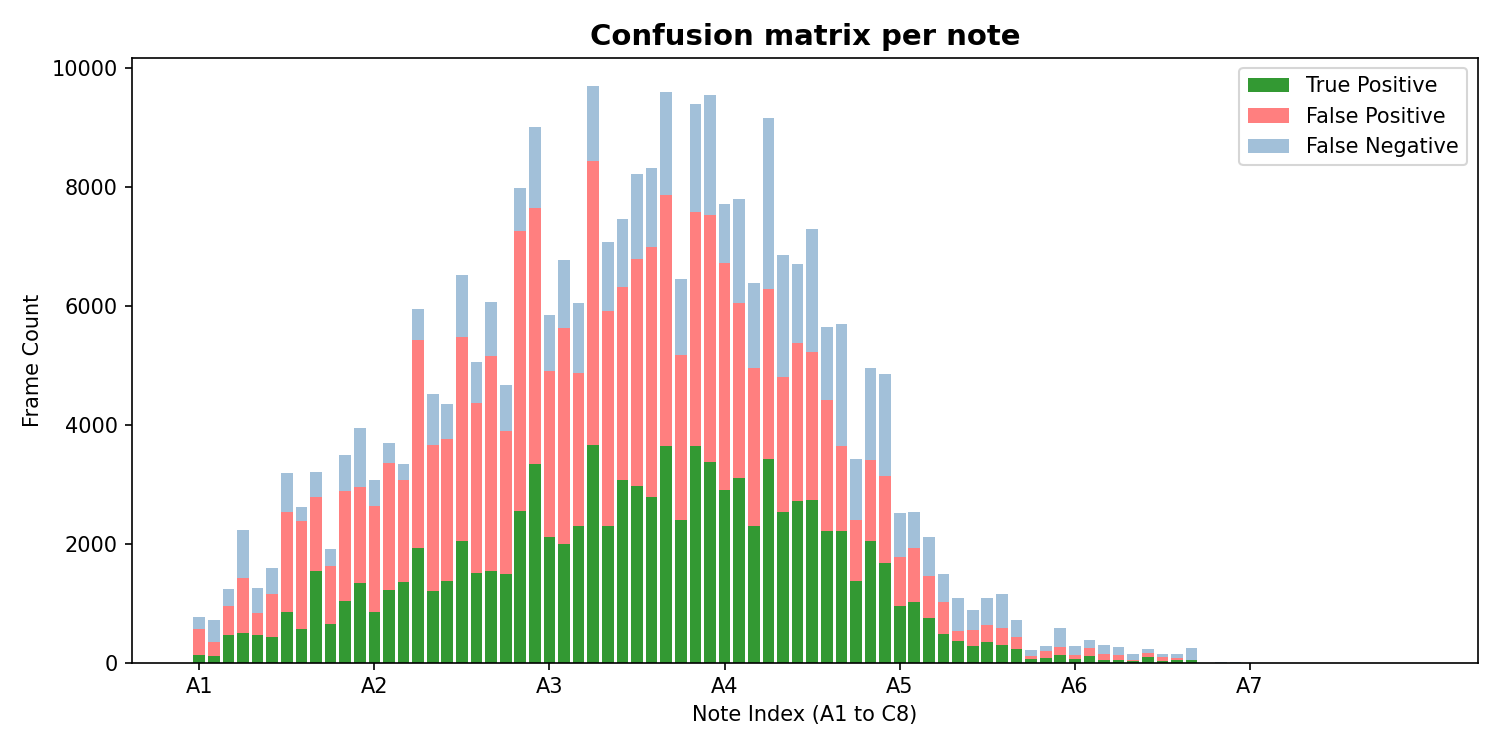
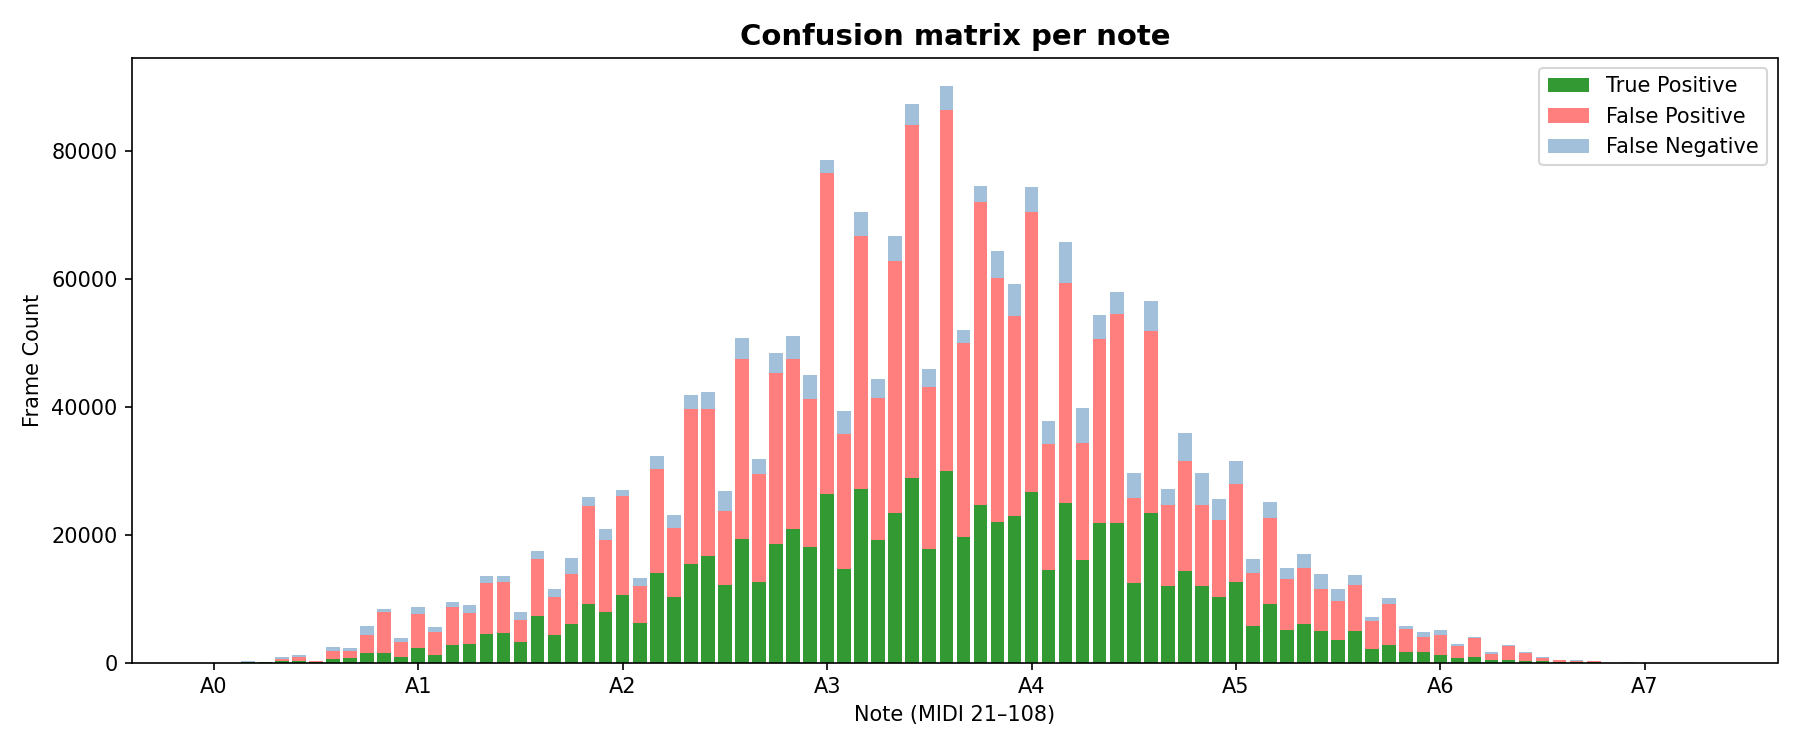
trainings

diff --git a/src/dataset.py b/src/dataset.py
@@ -1,67 +1,104 @@
-# dataset.py  –  Phase 3: CNN + BiLSTM + Multi-Output
+# dataset.py  -  MAESTRO Phase 3: CNN + BiLSTM + Multi-Output
 #
-# Rispetto alla Phase 2:
-#   - Integrata pipeline di data augmentation (pitch shift, detuning, gain,
-#     rumore gaussiano, reverb sintetico) — adattata dal codice esterno
-#   - _shift_piano_roll applicato anche a onset_roll e offset_roll
-#   - aug_config=None disattiva l'augmentation; ignorata su split != 'train'
-#   - Fix allineamento label: start_cqt_frame calcolato con fattore di scala
-#     sample_rate / ORIG_SR (necessario per resampling 44100 -> 22050)
+# Rispetto al MAESTRO Phase 2:
+#   - Aggiunto aug_config e pipeline di data augmentation
+#   - _shift_piano_roll applicato a pitch, onset e offset roll
+#   - Chiavi restituite allineate con train.py/evaluate.py:
+#       'onset_labels' -> 'onsets'
+#       'offset_labels' -> 'offsets'
+#   - Path CSV e data_dir risolti relativi alla project root
 
 import torch
 import torchaudio
 import pandas as pd
 import numpy as np
 import random
+import math
 from torch.utils.data import Dataset
 from pathlib import Path
 import soundfile as sf
+import pretty_midi
 
 from utils import load_config
 
 
-class MusicNetPianoDataset(Dataset):
+class MaestroDataset(Dataset):
 
-    config = load_config("configs/config.yaml")
+    def __init__(self,
+                 csv_file=None,
+                 data_dir=None,
+                 split='train',
+                 chunk_duration=None,
+                 sample_rate=None,
+                 aug_config=None,
+                 config_path="configs/config.yaml",
+                 val_seed=42):
 
-    def __init__(
-        self,
-        csv_file       = "data/solo_piano.csv",
-        data_dir       = "data/raw",
-        split          = 'train',
-        chunk_duration = config["dataset"]["chunk_duration"],
-        sample_rate    = config["dataset"]["sample_rate"],
-        aug_config     = None,
-        val_seed       = 42,
-    ):
+        cfg            = load_config(config_path)
+        self.config    = cfg
+        csv_file       = csv_file       or cfg['dataset']['csv_file']
+        data_dir       = data_dir       or cfg['dataset']['data_dir']
+        chunk_duration = chunk_duration or cfg['dataset']['chunk_duration']
+        sample_rate    = sample_rate    or cfg['dataset']['sample_rate']
+
+        # Risolve i path relativi alla project root (src/../)
         project_root  = Path(__file__).parent.parent
         csv_path      = project_root / csv_file
         self.data_dir = project_root / data_dir
 
         df = pd.read_csv(csv_path)
-        self.data = df[df['split'] == split].reset_index(drop=True)
-
+        self.data          = df[df['split'] == split].reset_index(drop=True)
         self.split          = split
         self.sample_rate    = sample_rate
         self.chunk_duration = chunk_duration
         self.chunk_samples  = int(chunk_duration * sample_rate)
-        self.aug_config     = aug_config if (split == 'train' and aug_config is not None) else None
+
+        # Augmentation attiva solo su train e solo se esplicitamente fornita
+        self.aug_config = aug_config if (split == 'train' and aug_config is not None) else None
+
+        print(f"Dataset '{split}' loaded: {len(self.data)} tracks.")
+
+        HOP_LENGTH = cfg['dataset']['hop_length']
+        MIDI_MIN   = cfg['dataset']['midi_min']
+        MIDI_MAX   = cfg['dataset']['midi_max']
+        NUM_NOTES  = MIDI_MAX - MIDI_MIN + 1
+        frame_rate = sample_rate / HOP_LENGTH
+
+        # Pre-calcolo piano roll completo per ogni traccia
+        print("Pre-computing pitch piano rolls...")
+        self.piano_rolls = {}
+
+        for _, row in self.data.iterrows():
+            midi_path    = self.data_dir / row['midi_filename']
+            pm           = pretty_midi.PrettyMIDI(str(midi_path))
+            total_frames = int(pm.get_end_time() * frame_rate) + 1
+
+            roll = np.zeros((total_frames, NUM_NOTES), dtype=np.float32)
+
+            if len(pm.instruments) > 0:
+                for note in pm.instruments[0].notes:
+                    if not (MIDI_MIN <= note.pitch <= MIDI_MAX):
+                        continue
+                    pitch_idx = note.pitch - MIDI_MIN
+                    f_start   = int(note.start * frame_rate)
+                    f_end     = min(int(note.end * frame_rate), total_frames - 1)
+                    roll[f_start:f_end + 1, pitch_idx] = 1.0
+
+            self.piano_rolls[row['midi_filename']] = roll
+
+        print("Piano rolls ready.")
 
         # --- FIX 1: indice (track_idx, chunk_idx) ---
         self.index = []
         self._orig_sr_cache = {}
 
         for row_idx, row in self.data.iterrows():
-            track_id = str(row['id'])
-            wav_path = self.data_dir / "wav" / f"{track_id}.wav"
+            wav_path = self.data_dir / row['audio_filename']
+            info     = sf.info(wav_path)
 
-            with sf.SoundFile(wav_path) as f:
-                total_samples = len(f)
-                orig_sr = f.samplerate
-
-            self._orig_sr_cache[row_idx] = orig_sr
-            orig_chunk_samples = int(self.chunk_samples * orig_sr / self.sample_rate)
-            n_chunks = max(1, total_samples // orig_chunk_samples)
+            self._orig_sr_cache[row_idx] = info.samplerate
+            orig_chunk_samples = int(self.chunk_samples * info.samplerate / self.sample_rate)
+            n_chunks = max(1, info.frames // orig_chunk_samples)
 
             for chunk_idx in range(n_chunks):
                 self.index.append((row_idx, chunk_idx))
@@ -81,24 +118,25 @@ class MusicNetPianoDataset(Dataset):
         return len(self.index)
 
     def __getitem__(self, idx):
+        cfg      = self.config
         row_idx, chunk_idx = self.index[idx]
         row      = self.data.iloc[row_idx]
-        track_id = str(row['id'])
+        track_id = Path(row['audio_filename']).stem
+        wav_path = self.data_dir / row['audio_filename']
 
-        wav_path   = self.data_dir / "wav"    / f"{track_id}.wav"
-        label_path = self.data_dir / "labels" / f"labels{track_id}.csv"
+        HOP_LENGTH = cfg['dataset']['hop_length']
+        MIDI_MIN   = cfg['dataset']['midi_min']
+        MIDI_MAX   = cfg['dataset']['midi_max']
+        NUM_NOTES  = MIDI_MAX - MIDI_MIN + 1
 
         # Audio
-        with sf.SoundFile(wav_path) as f:
-            total_samples = len(f)
-            orig_sr       = f.samplerate
-
+        info               = sf.info(wav_path)
+        total_samples      = info.frames
+        orig_sr            = info.samplerate
         orig_chunk_samples = int(self.chunk_samples * orig_sr / self.sample_rate)
 
         if self.split == 'train':
-            start_frame = 0
-            if total_samples > orig_chunk_samples:
-                start_frame = random.randint(0, total_samples - orig_chunk_samples)
+            start_frame = random.randint(0, max(0, total_samples - orig_chunk_samples))
         else:
             start_frame = min(
                 self.fixed_start_frames[(row_idx, chunk_idx)],
@@ -110,52 +148,45 @@ class MusicNetPianoDataset(Dataset):
             chunk_np = f.read(orig_chunk_samples, dtype='float32', always_2d=True)
 
         if chunk_np.shape[0] < orig_chunk_samples:
-            pad_len  = orig_chunk_samples - chunk_np.shape[0]
-            chunk_np = np.pad(chunk_np, ((0, pad_len), (0, 0)), mode='constant')
+            pad      = orig_chunk_samples - chunk_np.shape[0]
+            chunk_np = np.pad(chunk_np, ((0, pad), (0, 0)), mode='constant')
 
         waveform = torch.tensor(chunk_np.T, dtype=torch.float32)
         if waveform.shape[0] > 1:
             waveform = torch.mean(waveform, dim=0, keepdim=True)
         if orig_sr != self.sample_rate:
-            waveform = torchaudio.transforms.Resample(
-                orig_freq=orig_sr, new_freq=self.sample_rate)(waveform)
+            waveform = torchaudio.transforms.Resample(orig_sr, self.sample_rate)(waveform)
 
-        # Label
-        ORIG_SR    = 44100
-        HOP_LENGTH = 512
-        MIDI_MIN   = 33
-        MIDI_MAX   = 116
-        NUM_NOTES  = MIDI_MAX - MIDI_MIN + 1
+        # Pitch labels
+        frame_rate     = self.sample_rate / HOP_LENGTH
+        num_frames     = 1 + math.floor(self.chunk_samples / HOP_LENGTH)
+        start_time_sec = start_frame / orig_sr
+        label_start    = int(start_time_sec * frame_rate)
+        label_end      = label_start + num_frames
 
-        df_labels  = pd.read_csv(label_path)
-        num_frames = self.chunk_samples // HOP_LENGTH
+        full_roll  = self.piano_rolls[row['midi_filename']]
+        piano_roll = full_roll[label_start:min(label_end, len(full_roll))]
 
-        piano_roll  = np.zeros((num_frames, NUM_NOTES), dtype=np.float32)
-        onset_roll  = np.zeros((num_frames, NUM_NOTES), dtype=np.float32)
-        offset_roll = np.zeros((num_frames, NUM_NOTES), dtype=np.float32)
+        if len(piano_roll) < num_frames:
+            pad        = np.zeros((num_frames - len(piano_roll), NUM_NOTES), dtype=np.float32)
+            piano_roll = np.vstack([piano_roll, pad])
 
-        scale           = self.sample_rate / ORIG_SR
-        start_cqt_frame = int(start_frame * scale) // HOP_LENGTH
+        # Onset / Offset derivati on-the-fly dal pitch roll
+        if label_start > 0 and label_start <= len(full_roll):
+            prev_frame = full_roll[label_start - 1:label_start]
+        else:
+            prev_frame = np.zeros((1, NUM_NOTES), dtype=np.float32)
 
-        for _, label_row in df_labels.iterrows():
-            note_start = int(label_row['start_time'] * scale) // HOP_LENGTH
-            note_end   = int(label_row['end_time']   * scale) // HOP_LENGTH
-            local_start = note_start - start_cqt_frame
-            local_end   = note_end   - start_cqt_frame
+        if label_end < len(full_roll):
+            next_frame = full_roll[label_end:label_end + 1]
+        else:
+            next_frame = np.zeros((1, NUM_NOTES), dtype=np.float32)
 
-            if local_end <= 0 or local_start >= num_frames:
-                continue
-            note = int(label_row['note'])
-            if note < MIDI_MIN or note > MIDI_MAX:
-                continue
-            note_idx = note - MIDI_MIN
+        prev_extended = np.vstack([prev_frame, piano_roll[:-1]])
+        onset_roll    = np.clip(piano_roll - prev_extended, 0, 1)
 
-            piano_roll[max(0,local_start):min(num_frames,local_end), note_idx] = 1.0
-            if local_start >= 0:
-                onset_roll[local_start, note_idx] = 1.0
-            last_frame = local_end - 1
-            if 0 <= last_frame < num_frames:
-                offset_roll[last_frame, note_idx] = 1.0
+        next_extended = np.vstack([piano_roll[1:], next_frame])
+        offset_roll   = np.clip(piano_roll - next_extended, 0, 1)
 
         # Augmentation
         pitch_shift_steps = 0
@@ -172,15 +203,14 @@ class MusicNetPianoDataset(Dataset):
             waveform = waveform / max_val
 
         return {
-            "waveform": waveform,
-            "labels":   torch.tensor(piano_roll,  dtype=torch.float32),
-            "onsets":   torch.tensor(onset_roll,  dtype=torch.float32),
-            "offsets":  torch.tensor(offset_roll, dtype=torch.float32),
-            "id":       track_id,
+            'waveform': waveform,
+            'labels':   torch.tensor(piano_roll,  dtype=torch.float32),
+            'onsets':   torch.tensor(onset_roll,  dtype=torch.float32),
+            'offsets':  torch.tensor(offset_roll, dtype=torch.float32),
+            'id':       track_id,
         }
 
     def _shift_piano_roll(self, piano_roll, n_steps, num_notes):
-        """Trasla le note di n_steps semitoni. Note fuori range [0,num_notes) scartate."""
         shifted = np.zeros_like(piano_roll)
         for note_idx in range(num_notes):
             new_idx = note_idx + n_steps
@@ -189,39 +219,30 @@ class MusicNetPianoDataset(Dataset):
         return shifted
 
     def _apply_augmentation(self, waveform):
-        """
-        Pitch shift (int) | detuning (float, mutualmente esclusivi),
-        gain, rumore gaussiano, reverb sintetico.
-        Restituisce (waveform, pitch_shift_steps).
-        """
-        config = self.aug_config
+        cfg = self.aug_config
         pitch_shift_steps = 0
 
-        # 1. Pitch shift / detuning
-        if random.random() < config.get('pitch_shift_prob', 0.0):
-            max_steps = int(config.get('pitch_shift_max_steps', 2))
+        if random.random() < cfg.get('pitch_shift_prob', 0.0):
+            max_steps = int(cfg.get('pitch_shift_max_steps', 2))
             possible  = [s for s in range(-max_steps, max_steps + 1) if s != 0]
             pitch_shift_steps = random.choice(possible)
             waveform = torchaudio.functional.pitch_shift(
                 waveform, sample_rate=self.sample_rate, n_steps=float(pitch_shift_steps))
-        elif random.random() < config.get('detuning_prob', 0.0):
-            detuning = random.uniform(-config.get('detuning_max_steps', 0.5),
-                                       config.get('detuning_max_steps', 0.5))
+        elif random.random() < cfg.get('detuning_prob', 0.0):
+            detuning = random.uniform(-cfg.get('detuning_max_steps', 0.5),
+                                       cfg.get('detuning_max_steps', 0.5))
             waveform = torchaudio.functional.pitch_shift(
                 waveform, sample_rate=self.sample_rate, n_steps=detuning)
 
-        # 2. Gain
-        if random.random() < config.get('gain_prob', 0.0):
-            waveform = waveform * random.uniform(config.get('gain_min', 0.5), config.get('gain_max', 1.2))
+        if random.random() < cfg.get('gain_prob', 0.0):
+            waveform = waveform * random.uniform(cfg.get('gain_min', 0.5), cfg.get('gain_max', 1.2))
 
-        # 3. Rumore gaussiano (SNR > 40 dB a noise_max=0.005)
-        if random.random() < config.get('noise_prob', 0.0):
-            nl = random.uniform(config.get('noise_min', 0.001), config.get('noise_max', 0.005))
+        if random.random() < cfg.get('noise_prob', 0.0):
+            nl = random.uniform(cfg.get('noise_min', 0.001), cfg.get('noise_max', 0.005))
             waveform = waveform + nl * torch.randn_like(waveform)
 
-        # 4. Reverb sintetico (IR esponenziale, RT60 in [0.3, 1.5] s)
-        if random.random() < config.get('reverb_prob', 0.0):
-            rt60   = random.uniform(config.get('reverb_rt60_min', 0.3), config.get('reverb_rt60_max', 1.5))
+        if random.random() < cfg.get('reverb_prob', 0.0):
+            rt60   = random.uniform(cfg.get('reverb_rt60_min', 0.3), cfg.get('reverb_rt60_max', 1.5))
             ir_len = int(rt60 * 1.2 * self.sample_rate)
             t      = torch.linspace(0, rt60 * 1.2, ir_len)
             ir     = torch.exp(-t / (rt60 / np.log(1000.0)))
@@ -231,12 +252,15 @@ class MusicNetPianoDataset(Dataset):
 
         return waveform, pitch_shift_steps
 
-if __name__ == "__main__":
-    config    = load_config("configs/config.yaml")
-    augconfig   = config.get('augmentation', {})
-    aug_conf  = augconfig if augconfig.get('enabled', False) else None
-    dataset   = MusicNetPianoDataset(split="train", aug_config=aug_conf)
-    print(f"Chunk: {len(dataset)}")
-    s = dataset[0]
-    print(f"waveform {s['waveform'].shape}  labels {s['labels'].shape}  "
-          f"onsets {s['onsets'].shape}  offsets {s['offsets'].shape}")
+
+if __name__ == '__main__':
+    config   = load_config("configs/config.yaml")
+    aug_cfg  = config.get('augmentation', {})
+    aug_conf = aug_cfg if aug_cfg.get('enabled', False) else None
+    ds       = MaestroDataset(split='train', aug_config=aug_conf)
+    print(f"Chunk di training: {len(ds)}")
+    sample   = ds[0]
+    print(f"Waveform : {sample['waveform'].shape}")
+    print(f"Labels   : {sample['labels'].shape}   active={sample['labels'].mean():.4f}")
+    print(f"Onsets   : {sample['onsets'].shape}   active={sample['onsets'].mean():.4f}")
+    print(f"Offsets  : {sample['offsets'].shape}  active={sample['offsets'].mean():.4f}")

diff --git a/src/train.py b/src/train.py
@@ -74,10 +74,9 @@ def train():
     val_dataset   = MaestroDataset(split='validation', aug_config=None,       config_path=CONFIG_PATH)
 
     train_loader = DataLoader(train_dataset, batch_size=config['training']['batch_size'],
-                              shuffle=True,  num_workers=0)
+                            shuffle=True,  num_workers=4, pin_memory=True, persistent_workers=True)
     val_loader   = DataLoader(val_dataset,   batch_size=config['training']['batch_size'],
-                              shuffle=False, num_workers=0)
-
+                            shuffle=False, num_workers=4, pin_memory=True, persistent_workers=True)
     print(f"Tracce - train: {len(train_dataset)} | val: {len(val_dataset)}")
 
     input_features = get_input_features(feat_cfg, sr=sr)
